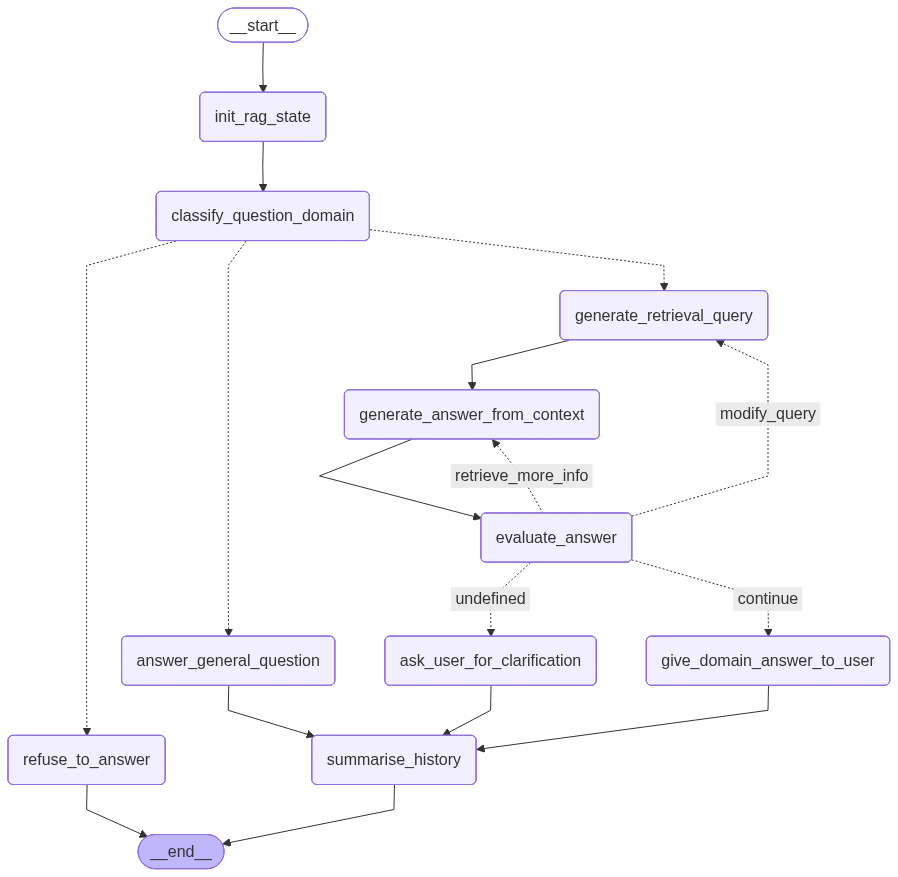
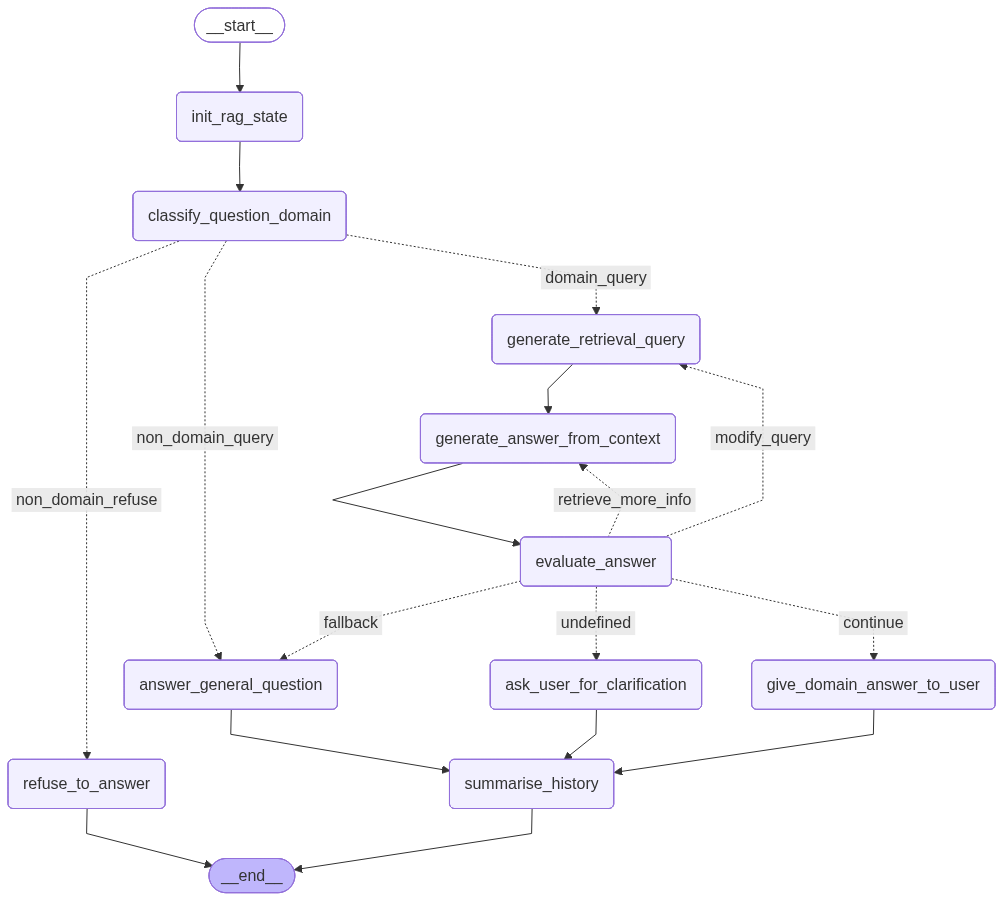
feat(rag): separate out general chat and fallback
Fixes #34

diff --git a/rag_pkg/gen_rag/rag.py b/rag_pkg/gen_rag/rag.py
@@ -163,6 +163,7 @@ class RAG(object):
 
     def _init_rag_state_node(self, state: RAGState) -> dict:
         """Initialise, reset state before next iteration"""
+        self.modify_query = False
         return {
             "query_domain": "undefined",
             "text_response_eval": EvaluateAnswerSchema(),
@@ -270,9 +271,11 @@ class RAG(object):
         }
 
     def _refuse_to_answer_node(self, state: RAGState) -> dict:
-        return {
-            "message_for_user": "I cannot answer this query as it does not fall into my allowed domains. Please try another query."
-        }
+        msg = "Sorry. I cannot answer this query as it does not fall into my permitted domains. Available domains are:\n"
+        msg += "\n- ".join([""] + self.stores.domains)
+        msg += "\n\n\nPlease try another query."
+
+        return {"message_for_user": msg}
 
     def _answer_general_question_node(self, state: RAGState) -> dict:
         """Answer a general question"""
@@ -318,7 +321,8 @@ class RAG(object):
         self.logger.debug(f"{output =}")
 
         answer = ""
-        if self.stores.config.vs_non_domain_answer.enabled:
+        # add warning if we're falling back to training data for a domain query
+        if self.config.non_domain_chat and state.query_domain != "undefined":
             answer += "\n\n" + self.stores.vs_config.non_domain_answer.warning + "\n\n"
 
         thought, answer_text = split_output_by_section(
@@ -708,9 +712,13 @@ class RAG(object):
             and resp.conciseness >= 0.5
         ):
             self.stores.reset_k()
+            self.logger.debug("returning: continue")
             return "continue"
-        elif next_step == "modify_query" or resp.coverage < 0.3:
+        elif not self.modify_query and (
+            next_step == "modify_query" or resp.coverage < 0.3
+        ):
             self.modify_query = True
+            self.logger.debug("returning: modify_query")
             return "modify_query"
         elif next_step == "retrieve_more_info" or (
             resp.coverage >= 0.5 and resp.confidence < 0.5
@@ -718,12 +726,24 @@ class RAG(object):
             # limit what max k we can have, otherwise, we end up pulling the
             # whole store..
             if self.stores.inc_k():
+                self.logger.debug("returning: retrieve_more_info")
                 return "retrieve_more_info"
             else:
                 # we are already at max context, so we need to modify the query
-                # to get a better result
-                self.modify_query = True
-                return "modify_query"
+                # to get a better result if possible
+                if not self.modify_query:
+                    self.modify_query = True
+                    self.logger.debug("returning: modify_query")
+                    return "modify_query"
+                # if we've already modified query, fallback to training data if
+                # possible, otherwise ask for clarification
+                else:
+                    if self.stores.vs_config.fallback_to_training_data:
+                        self.logger.debug("returning: fallback")
+                        return "fallback"
+                    else:
+                        self.logger.debug("returning: undefined")
+                        return "undefined"
         elif next_step == "rewrite_answer" or (
             resp.coverage >= 0.5
             and resp.confidence >= 0.5
@@ -734,9 +754,16 @@ class RAG(object):
                 and resp.conciseness < 0.5
             )
         ):
+            self.logger.debug("returning: rewrite_answer")
             return "rewrite_answer"
+        # all other cases: fallback to training data if enabled, otherwise ask for clarification
         else:
-            return "undefined"
+            if self.stores.vs_config.fallback_to_training_data:
+                self.logger.debug("returning: fallback")
+                return "fallback"
+            else:
+                self.logger.debug("returning: undefined")
+                return "undefined"
 
     def _route_query_domain_node(self, state: RAGState) -> str:
         """Route the query depending on LLM's result"""
@@ -744,12 +771,12 @@ class RAG(object):
         query_domain = state.query_domain
 
         if query_domain in self.stores.domains and query_domain != "undefined":
-            return "generate_retrieval_query"
+            return "domain_query"
         else:
-            if self.stores.vs_config.non_domain_answer.enabled:
-                return "answer_general_question"
+            if self.config.non_domain_chat:
+                return "non_domain_query"
             else:
-                return "refuse_to_answer"
+                return "non_domain_refuse"
 
     def _give_domain_answer_to_user_node(self, state: RAGState) -> dict:
         """Return the answer message to the user"""
@@ -809,11 +836,16 @@ class RAG(object):
             "classify_question_domain",
             self._route_query_domain_node,
             {
-                "generate_retrieval_query": "generate_retrieval_query",
-                "answer_general_question": "answer_general_question",
-                "refuse_to_answer": "refuse_to_answer",
+                "domain_query": "generate_retrieval_query",
+                "non_domain_query": "answer_general_question",
+                "non_domain_refuse": "refuse_to_answer",
             },
         )
+        self.workflow.add_edge(
+            "generate_retrieval_query", "generate_answer_from_context"
+        )
+        self.workflow.add_edge("generate_answer_from_context", "evaluate_answer")
+
         self.workflow.add_conditional_edges(
             "evaluate_answer",
             self._route_answer_evaluator_node,
@@ -822,14 +854,10 @@ class RAG(object):
                 "retrieve_more_info": "generate_answer_from_context",
                 "rewrite_answer": "generate_answer_from_context",
                 "modify_query": "generate_retrieval_query",
+                "fallback": "answer_general_question",
                 "undefined": "ask_user_for_clarification",
             },
         )
-
-        self.workflow.add_edge(
-            "generate_retrieval_query", "generate_answer_from_context"
-        )
-        self.workflow.add_edge("generate_answer_from_context", "evaluate_answer")
 
         if self.memory:
             self.workflow.add_edge("give_domain_answer_to_user", "summarise_history")

diff --git a/rag_pkg/gen_rag/stores.py b/rag_pkg/gen_rag/stores.py
@@ -30,7 +30,7 @@ logging.basicConfig()
 logging.root.setLevel(logging.WARNING)
 
 
-class NonDomainAnswer(BaseModel):
+class FallbackConfig(BaseModel):
     enabled: bool = False
     warning: str = ""
 
@@ -52,7 +52,7 @@ class VectorStoresConfig(BaseModel):
     pre_prompt: str = ""
     embedding_model: str  # = "ollama:bge-m3"
     domains: Dict[str, PerDomainConfig]
-    non_domain_answer: NonDomainAnswer
+    fallback_to_training_data: FallbackConfig
 
 
 class Vector_Stores(object):

diff --git a/rag_pkg/gen_rag/config.py b/rag_pkg/gen_rag/config.py
@@ -13,4 +13,5 @@ from pydantic_settings import BaseSettings
 
 class AppConfig(BaseSettings):
     chat_model: str = "ollama:qwen2.5-coder:3b"
+    non_domain_chat: bool = True
     vs_config_file: str = "vector_stores.json"